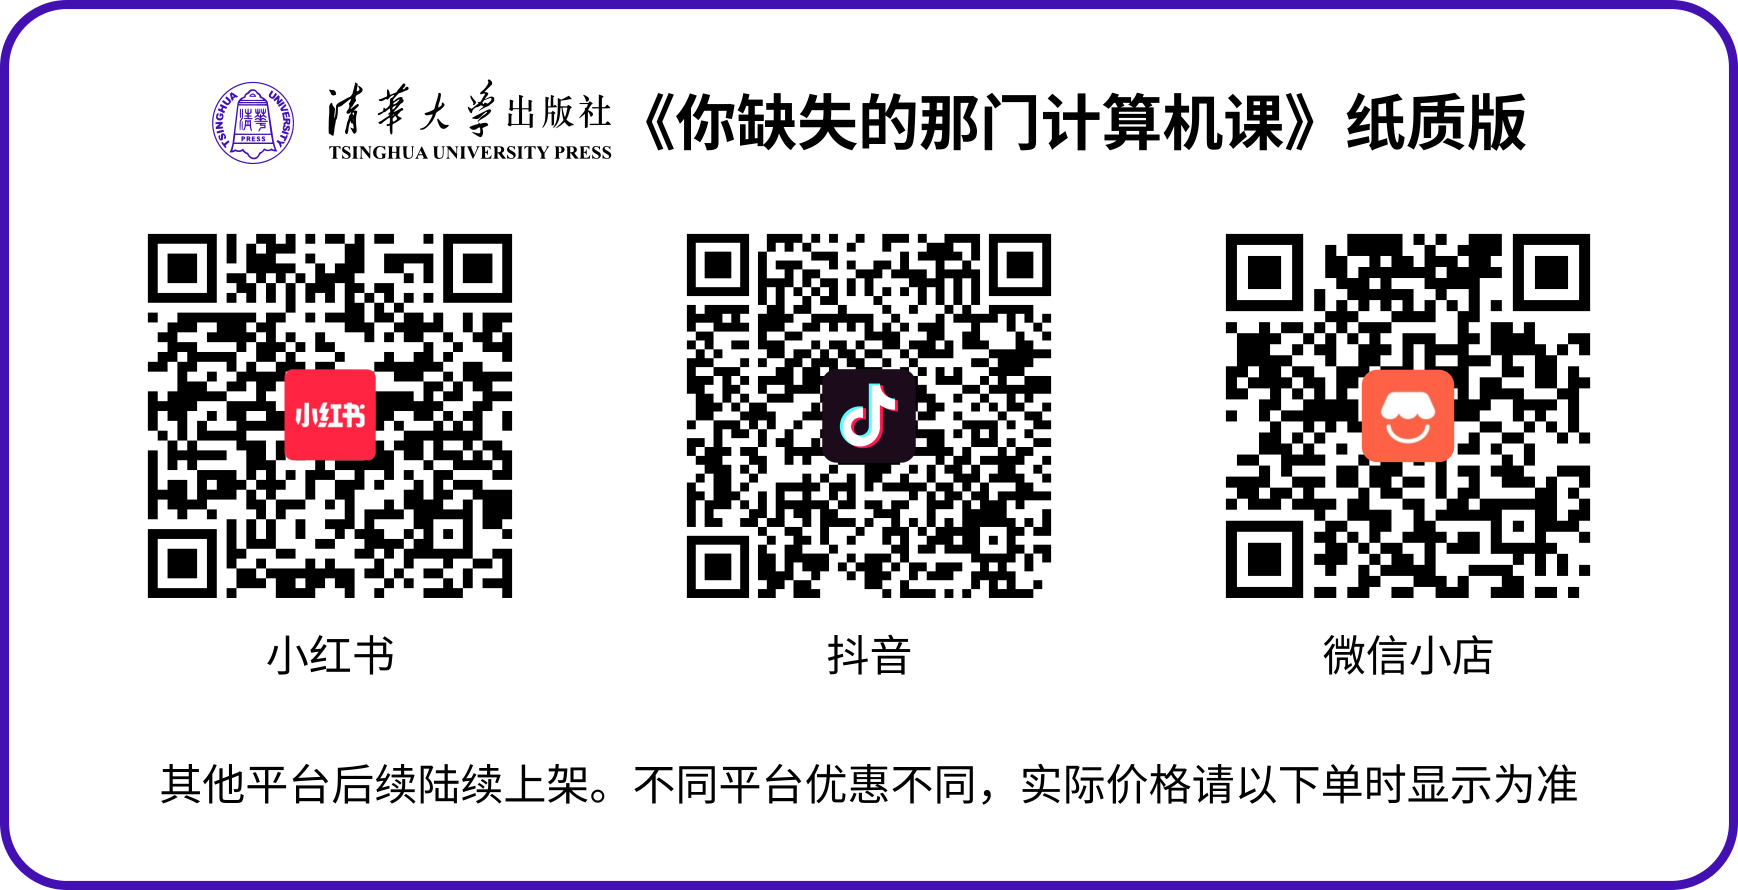
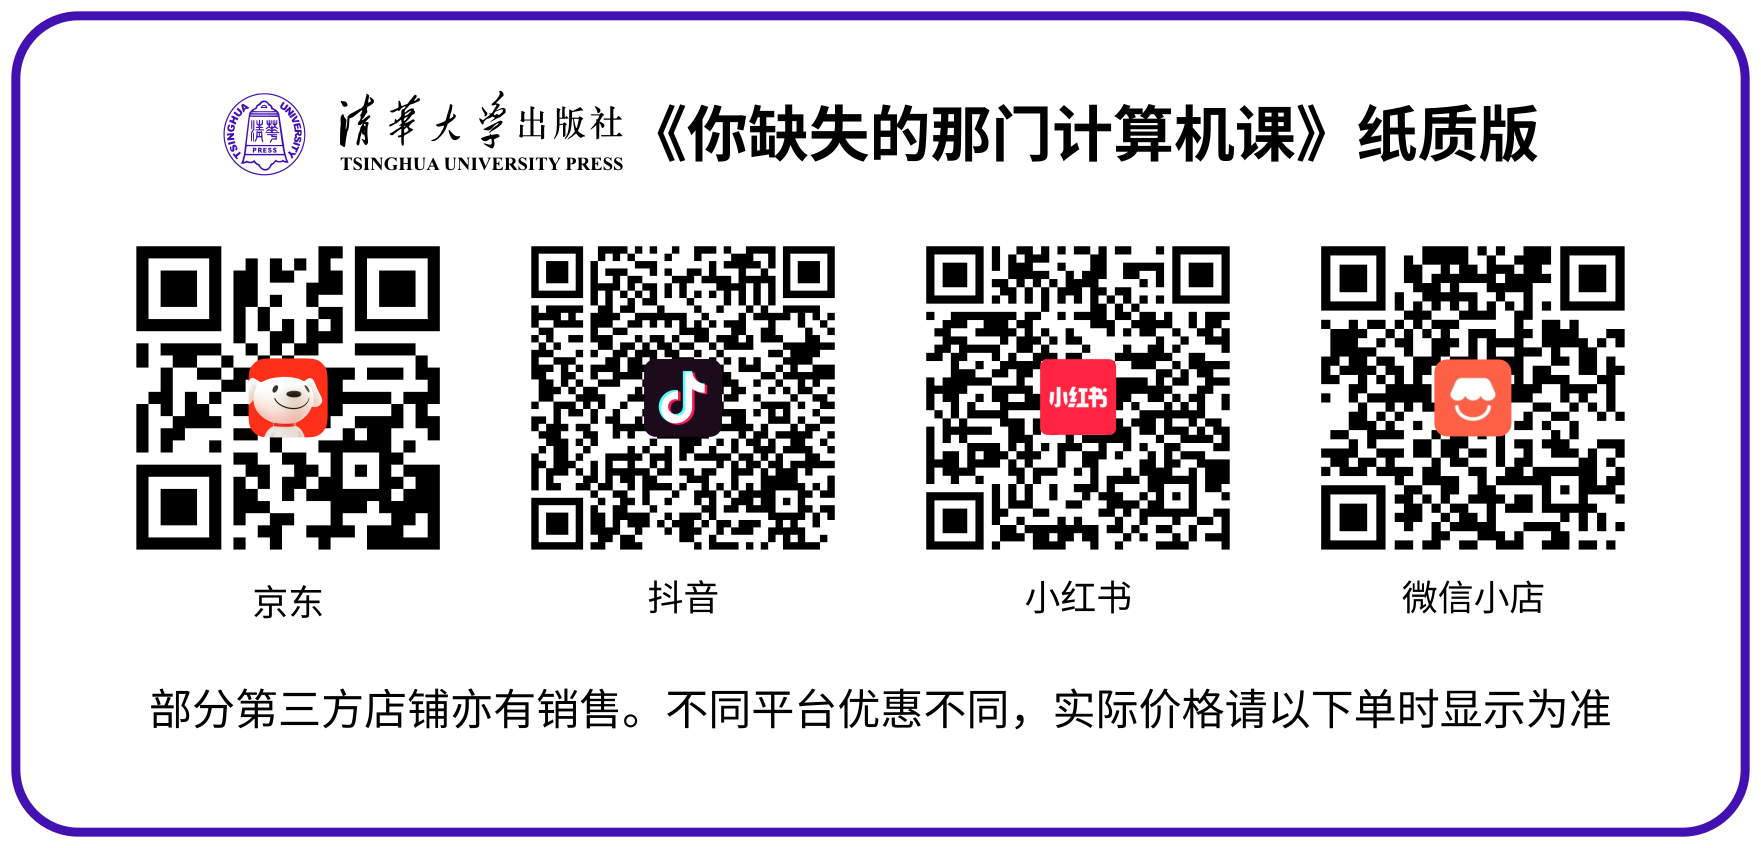
优化深色模式按钮样式；增加京东链接

diff --git a/themes/hugo-book/assets/_custom.scss b/themes/hugo-book/assets/_custom.scss
@@ -162,7 +162,8 @@ rt {
         bottom: 0;
         left: 0;
         right: 0;
-        background-color: rgba(255, 255, 255, 0.3);
+        // background-color: rgba(255, 255, 255, 0.3);
+        background-color: var(--toc-overlay-background);
     }
 
     .book-header-checked {
@@ -299,7 +300,8 @@ rt {
 
   mark {
     background: #fff3b0;
-    color: inherit;
+    // color: inherit;
+    color: #565d54;
     padding: 1px 2px;
     border-radius: 2px;
     font-weight: 500;
@@ -443,6 +445,9 @@ rt {
 }
 
 .book-theme-toggle-buttons button {
+  display: flex;
+  align-items: center;
+  justify-content: center;
   flex: 1;
   padding: 4px 2px;
   border: 1px solid var(--gray-200);
@@ -453,6 +458,10 @@ rt {
   cursor: pointer;
   transition: background 0.15s, border-color 0.15s;
 
+  img {
+    display: block;
+  }
+
   &:hover {
     background: var(--gray-100);
   }
@@ -460,7 +469,6 @@ rt {
   &.active {
     background: var(--color-link);
     border-color: var(--color-link);
-    // Make emoji visible on colored bg
   }
 }
 
@@ -474,6 +482,22 @@ rt {
 
 [data-theme="dark"] {
   @include theme-dark;
+
+  .book-theme-toggle-buttons button img {
+    filter: brightness(0) invert(1);
+  }
+}
+
+// Active button always has colored background → SVG should be white
+.book-theme-toggle-buttons button.active img {
+  filter: brightness(0) invert(1);
+}
+
+// Auto mode with dark OS preference → all SVGs white
+@media (prefers-color-scheme: dark) {
+  :root:not([data-theme]) .book-theme-toggle-buttons button img {
+    filter: brightness(0) invert(1);
+  }
 }
 
 // Shrink when the screen is narrow enough

diff --git a/layouts/partials/docs/toc.html b/layouts/partials/docs/toc.html
@@ -3,11 +3,10 @@
 {{ partial "docs/inject/toc-after" . }}
 
 <div class="book-theme-toggle">
-  <span class="book-theme-toggle-label">主题</span>
-  <div class="book-theme-toggle-buttons">
-    <button data-theme-value="light" title="浅色">☀</button>
-    <button data-theme-value="auto" title="自动">⚙</button>
-    <button data-theme-value="dark" title="深色">🌙</button>
+  <div class="book-theme-toggle-buttons" aira-label="切换主题">
+    <button data-theme-value="light" title="浅色"><img src="{{ "svg/light_mode.svg" | relURL }}" alt="" width="18" height="18" aria-hidden="true"></button>
+    <button data-theme-value="auto" title="自动"><img src="{{ "svg/auto_mode.svg" | relURL }}" alt="" width="18" height="18" aria-hidden="true"></button>
+    <button data-theme-value="dark" title="深色"><img src="{{ "svg/dark_mode.svg" | relURL }}" alt="" width="18" height="18" aria-hidden="true"></button>
   </div>
 </div>
 

diff --git a/themes/hugo-book/assets/_defaults.scss b/themes/hugo-book/assets/_defaults.scss
@@ -45,6 +45,8 @@ $mobile-warning-breakpoint-large: $mobile-breakpoint * 1.2 !default;
   --hint-info: #6bf;
   --hint-warning: #ffc266;
   --hint-danger: #f44;
+
+  --toc-overlay-background: rgba(255, 255, 255, 0.3);
 }
 
 @mixin theme-dark {
@@ -59,13 +61,15 @@ $mobile-warning-breakpoint-large: $mobile-breakpoint * 1.2 !default;
   --body-background: #343a40;
   --body-font-color: #e9ecef;
 
+  --icon-filter: brightness(0) invert(1);
+
   --hint-block-quote: rgba(255, 255, 255, 0.1);
   --hint-quoting: #6cf;
   --hint-info: #6bf;
   --hint-warning: #ffc266;
   --hint-danger: #f44;
 
-  --icon-filter: brightness(0) invert(1);
+  --toc-overlay-background: rgba(0, 0, 0, 0.3);
 }
 
 $hint-colors: (

diff --git a/content/_index.md b/content/_index.md
@@ -69,9 +69,9 @@ chapter: -2
 ## 本作品的各种版本
 
 - 网页版：[https://www.criwits.top/missing]({{<relref "_index.md">}})
-- 纸质版：已由 [清华大学出版社](https://www.tup.com.cn/) 出版，目前已上架 [抖音](https://haohuo.jinritemai.com/ecommerce/trade/detail/index.html?id=3825169060937728257)、[小红书](https://www.xiaohongshu.com/goods-detail/6a2b6d51963c4c0001e83caf) 和 [微信小店](https://store.weixin.qq.com/shop/a/xmzBDoYpZPSxUke) 三个新媒体平台。若您想要购买，可以点击前面的链接或扫描下图中各平台二维码直达商品页面。
+- 纸质版：ISBN 9787302716266，已由 [清华大学出版社](https://www.tup.com.cn/) 出版，目前已上架 [京东](https://3.cn/2U-4BQbf)、[抖音](https://haohuo.jinritemai.com/ecommerce/trade/detail/index.html?id=3825169060937728257)、[小红书](https://www.xiaohongshu.com/goods-detail/6a2b6d51963c4c0001e83caf) 和 [微信小店](https://store.weixin.qq.com/shop/a/xmzBDoYpZPSxUke) 等平台。若您想要购买，可以点击前面各链接或扫描下图中各平台二维码直达商品页面。多谢您的支持！
 
-![抖音、小红书、微信小店平台购买链接二维码](misc/Paper_book_links.png#center)
+![各平台购买链接二维码](misc/Paper_book_links.png?updated=20260701#center)
 
 - 开源 PDF 版（25/3/13 更新，版本 2.0，**请注意更新时间**）：[蓝奏云](https://wwnv.lanzoul.com/b014wlzbne)（密码：`3ugq`），[百度网盘](https://pan.baidu.com/s/1Ud2v8wupC_10L6Rz4QoHYw?pwd=YSQD)（密码：`YSQD`，第三方提供），[GitHub 发布页](https://github.com/criwits/missing-pdf/releases/latest)（可能无法访问）
 - GitHub 仓库：[criwits/missing-web](https://github.com/criwits/missing-web/)（网页版），[criwits/missing-pdf](https://github.com/criwits/missing-pdf/)（开源 PDF 版）
@@ -101,11 +101,11 @@ chapter: -2
 
 {{< commit_info >}}
 
+- Dark mode: 网页版支持深色模式 (26/6/22)
+- Finally published: 纸质版正式出版上架 (26/6/12)
 - Experience update: 增加了「上一章」「下一章」按钮 (26/5/15)
 - Content update:「电脑组成」章增加对超线程和「i9 级」CPU 的介绍 (26/2/7)
 - Almost there: 调整了一些在纸书编辑加工过程中发现的不佳片段 (25/12/24)
-- Content update: 增加禁用 Windows 搜索联网功能的操作说明 (25/10/17)
-- Experience update: 现在点击图片可以放大查看了 (25/9/30)
 - [查看更多……]({{<relref "revisions.md">}})
 
 ## 著作权、许可与声明

diff --git a/content/buy-paper-book.md b/content/buy-paper-book.md
@@ -5,8 +5,8 @@ type: docs
 
 # 纸质书购买渠道
 
-由清华大学出版社出版的《你缺失的那门计算机课》已经正式上市，目前已上架 [抖音](https://haohuo.jinritemai.com/ecommerce/trade/detail/index.html?id=3825169060937728257)、[小红书](https://www.xiaohongshu.com/goods-detail/6a2b6d51963c4c0001e83caf) 和 [微信小店](https://store.weixin.qq.com/shop/a/xmzBDoYpZPSxUke) 三个新媒体平台。若您想要购买，可以点击前方链接或扫描下图中各平台二维码直达商品页面。
+由清华大学出版社出版的《你缺失的那门计算机课》（ISBN 9787302716266）已经正式上市，目前已上架 [京东](https://3.cn/2U-4BQbf)、[抖音](https://haohuo.jinritemai.com/ecommerce/trade/detail/index.html?id=3825169060937728257)、[小红书](https://www.xiaohongshu.com/goods-detail/6a2b6d51963c4c0001e83caf) 和 [微信小店](https://store.weixin.qq.com/shop/a/xmzBDoYpZPSxUke) 等平台。若您想要购买，可以点击前面各链接或扫描下图中各平台二维码直达商品页面。多谢您的支持！
 
-![抖音、小红书、微信小店平台购买链接二维码](misc/Paper_book_links.png#center)
+![各平台购买链接二维码](misc/Paper_book_links.png?updated=20260701#center)
 
-京东/当当等传统电商平台将在日后上架，本页面将同步更新上架情况。此外，通过各平台直播间下单将有机会享较大优惠，具体优惠价格，请以下单时显示为准。
+除上述平台的清华大学出版社官方店铺外，部分其他平台的第三方店铺亦有销售。此外，通过各平台直播间下单将有机会享较大优惠，具体优惠价格，请以下单时显示为准。

diff --git a/content/revisions.md b/content/revisions.md
@@ -7,6 +7,8 @@ type: docs
 
 这里记录了本作品自面世以来的内容更新和修订。较大的更新和修订都会在这里记录，以便读者查阅。
 
+- Dark mode: 网页版支持深色模式 (26/6/22)
+- Finally published: 纸质版正式出版上架 (26/6/12)
 - Experience update: 增加了「上一章」「下一章」按钮 (26/5/15)
 - Content update:「电脑组成」章增加对超线程和「i9 级」CPU 的介绍 (26/2/7)
 - Almost there: 调整了一些在纸书编辑加工过程中发现的不佳片段 (25/12/24)
